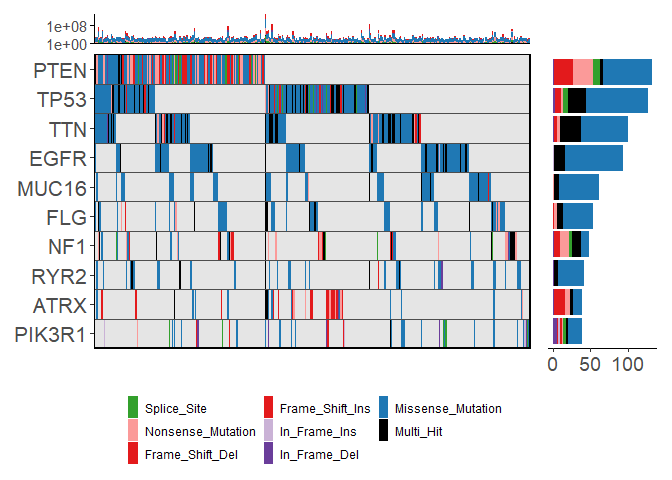
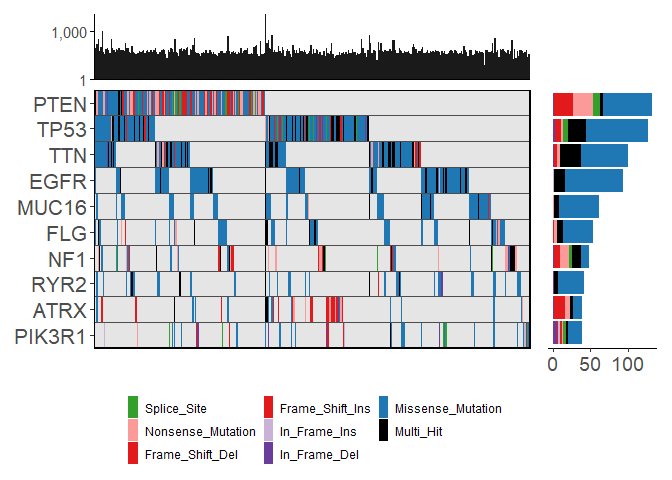
updated readme

Changed region(s): [[0.0, 0.0312, 0.9688, 0.7188], [0.8125, 0.6562, 0.875, 0.6875], [0.8125, 0.5938, 0.875, 0.625]]

diff --git a/README.md b/README.md
@@ -95,6 +95,8 @@ gbm_df |>
 #> ℹ 0/7 mutation types were valid SO terms
 #> ℹ 7/7 mutation types were valid MAF terms
 #> ✔ Mutation Types are described using valid MAF terms ... using MAF palete
+#> ! TMB plot: Ignoring `col_mutation_type` since `log10_transform = TRUE`.
+#> This is because you cannot accurately plot stacked bars on a logarithmic scale
 ```
 
 <img src="man/figures/README-unnamed-chunk-2-1.png" width="100%" />
